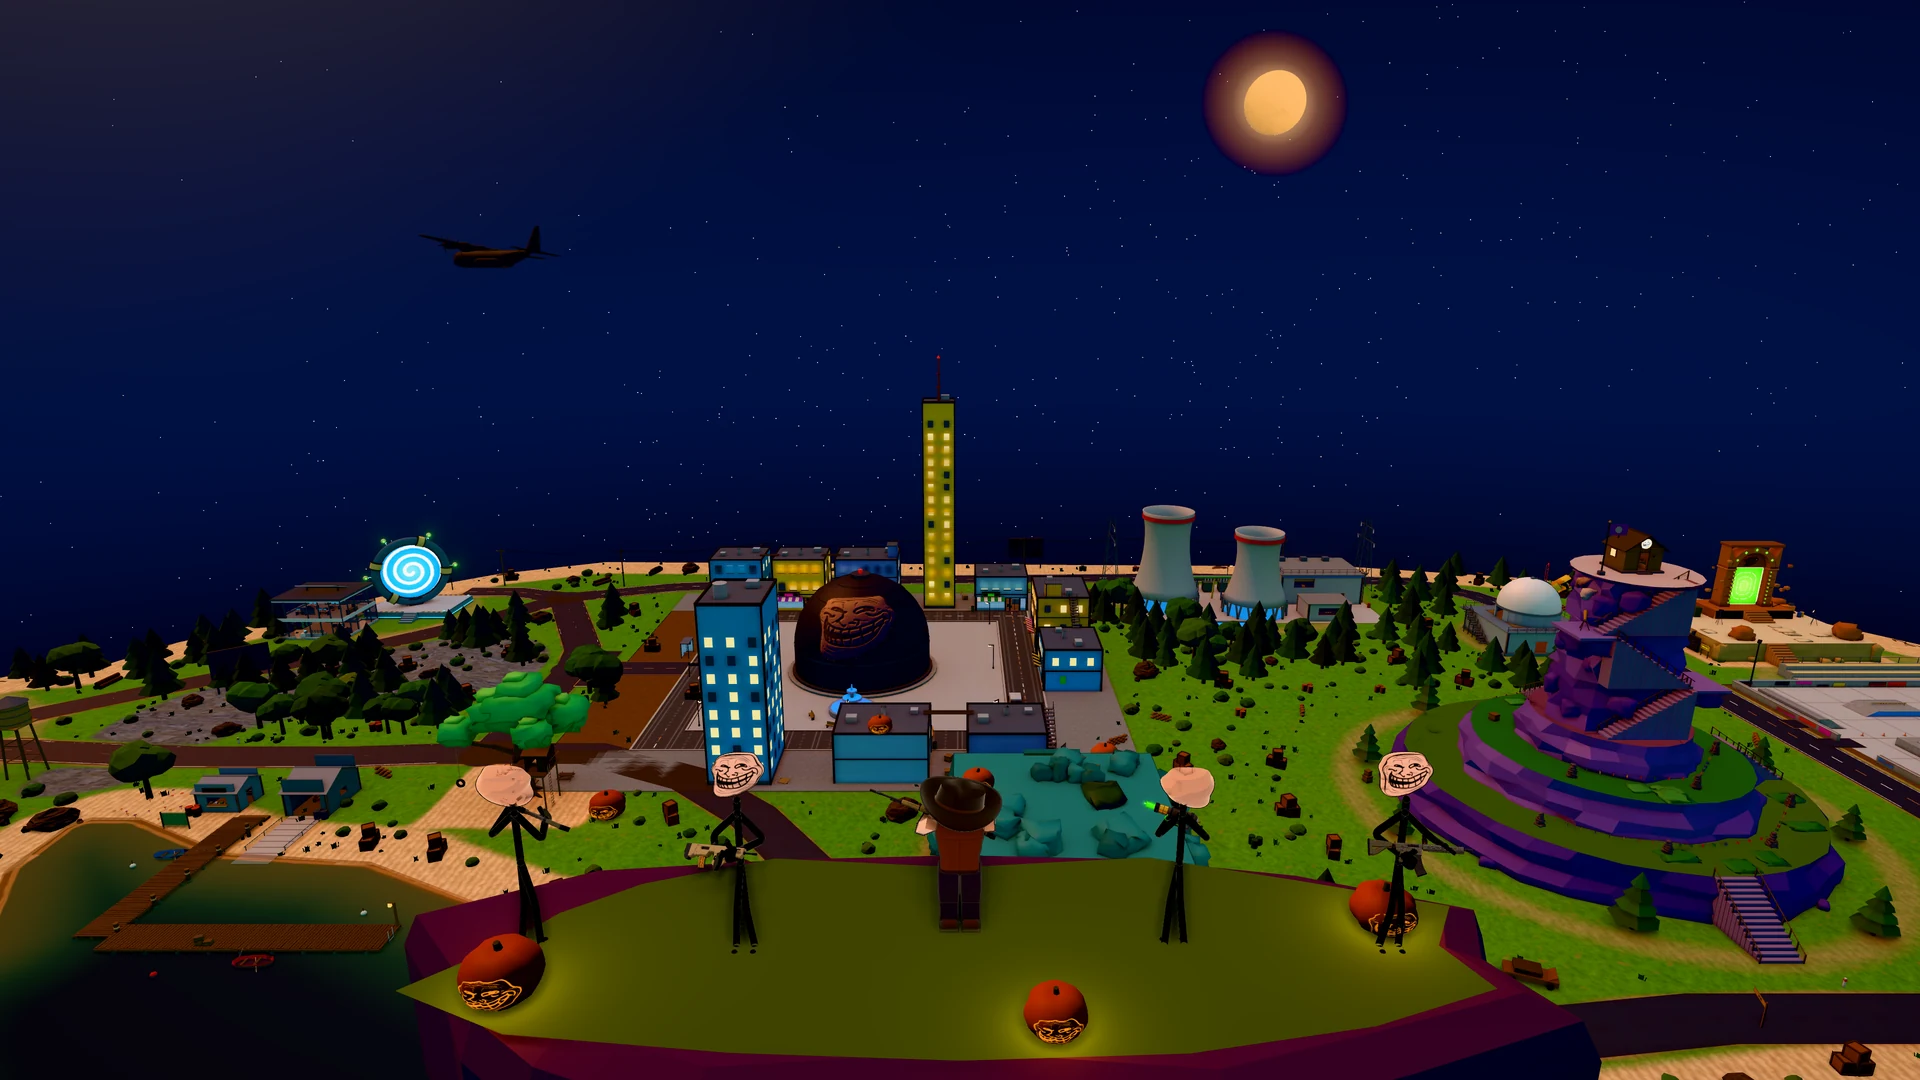
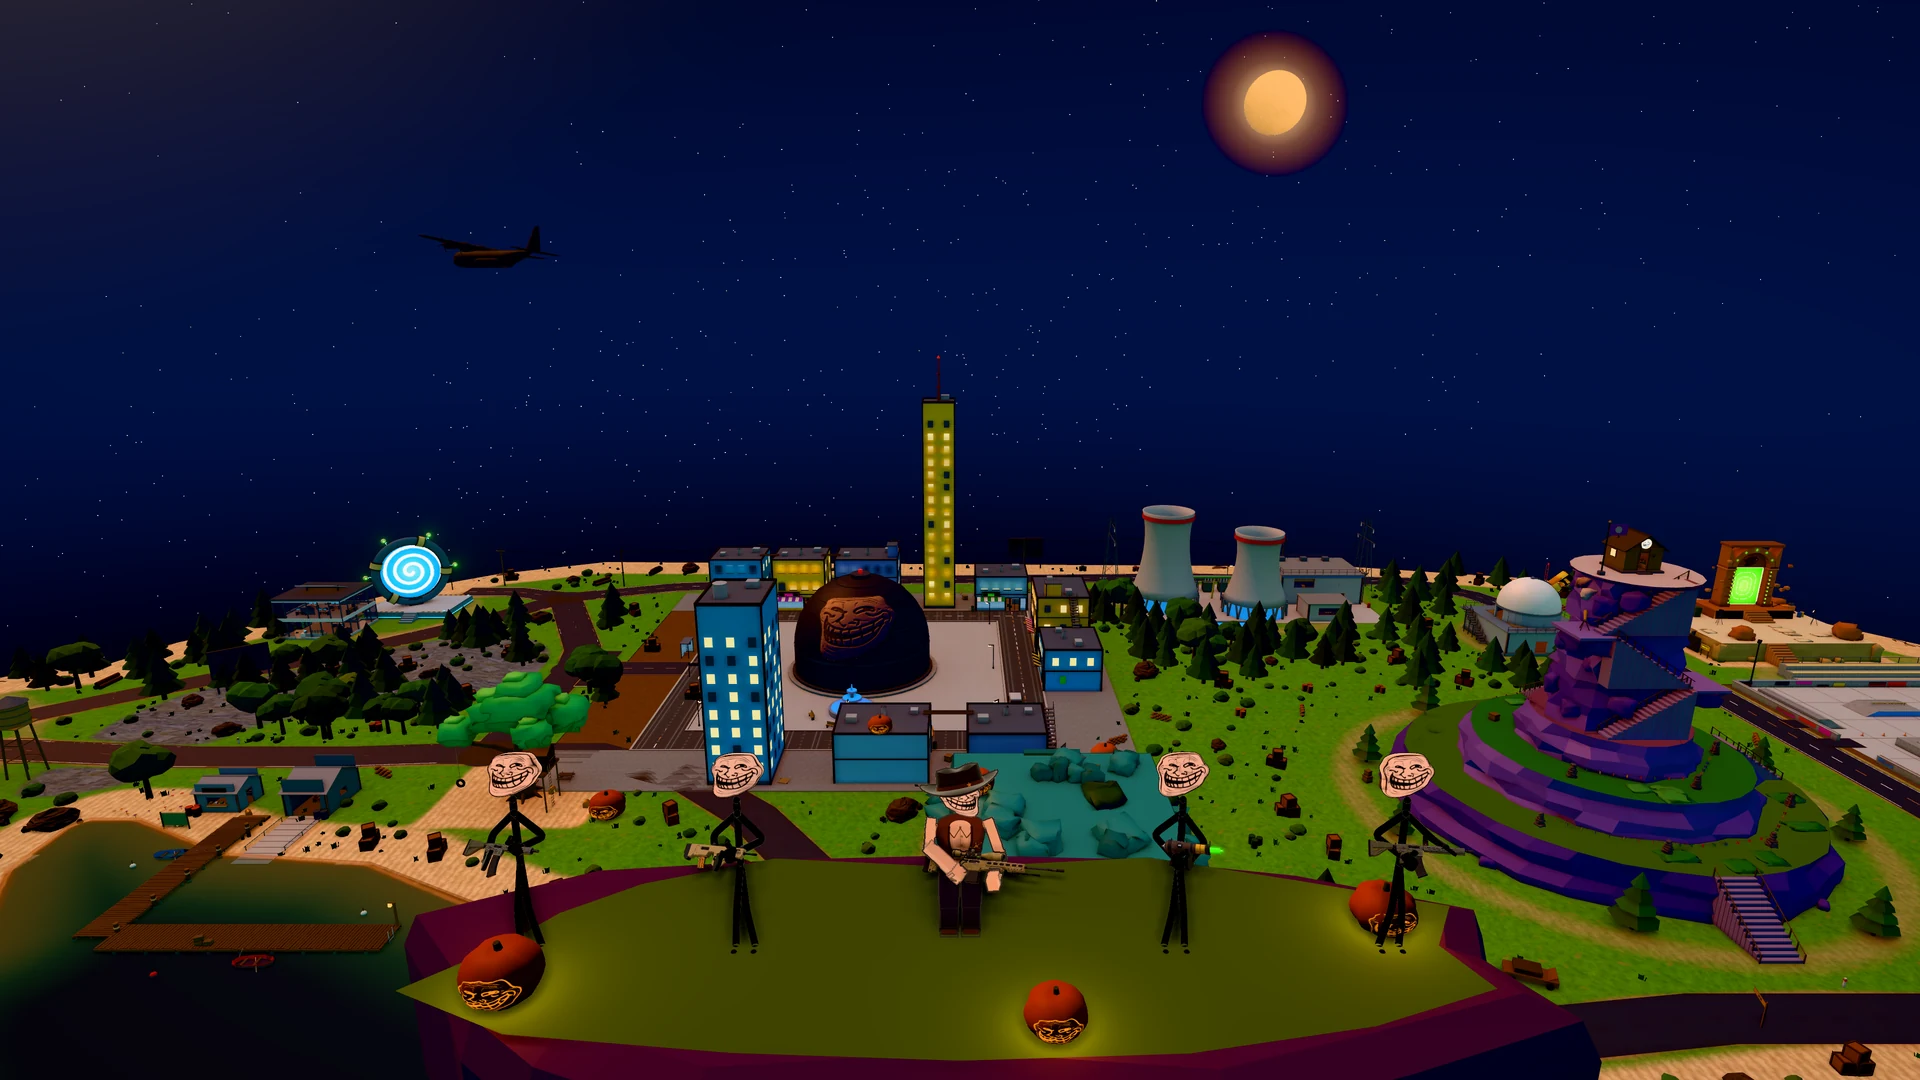
Trollnite boot screen: the whole squad faces you (no see-through heads)
From behind, the 3D trollface head is a pale backlit dome whose shading read
as see-through (the bushes and their own bodies seemed to show through it;
a solid-magenta test render showed the mesh is opaque). Every squad member
now turns to the camera (tools/troll-ops-loading-art.json "turn": true),
both frames re-rendered and checked at full size round each head. The art
gets a ?v=fc1 tag so phones drop the old picture.

diff --git a/troll-ops.html b/troll-ops.html
@@ -734,8 +734,8 @@
            for the device in hand. Up until the player enters the menu. -->
       <div class="to-loading" id="to-loading" role="dialog" aria-label="Trollnite">
         <picture class="to-boot-art">
-          <source media="(orientation: portrait)" srcset="assets/games/troll-ops/ui/boot/key-art-tall.webp">
-          <img src="assets/games/troll-ops/ui/boot/key-art-wide.webp" alt="The squad on the Troll Peak, looking out over Trollface Island on Halloween night" decoding="async" fetchpriority="high">
+          <source media="(orientation: portrait)" srcset="assets/games/troll-ops/ui/boot/key-art-tall.webp?v=fc1">
+          <img src="assets/games/troll-ops/ui/boot/key-art-wide.webp?v=fc1" alt="The squad on the Troll Peak facing you, Trollface Island behind them on Halloween night" decoding="async" fetchpriority="high">
         </picture>
         <div class="to-boot-top">
           <b class="tn-word to-boot-word">TROLLNITE</b>
